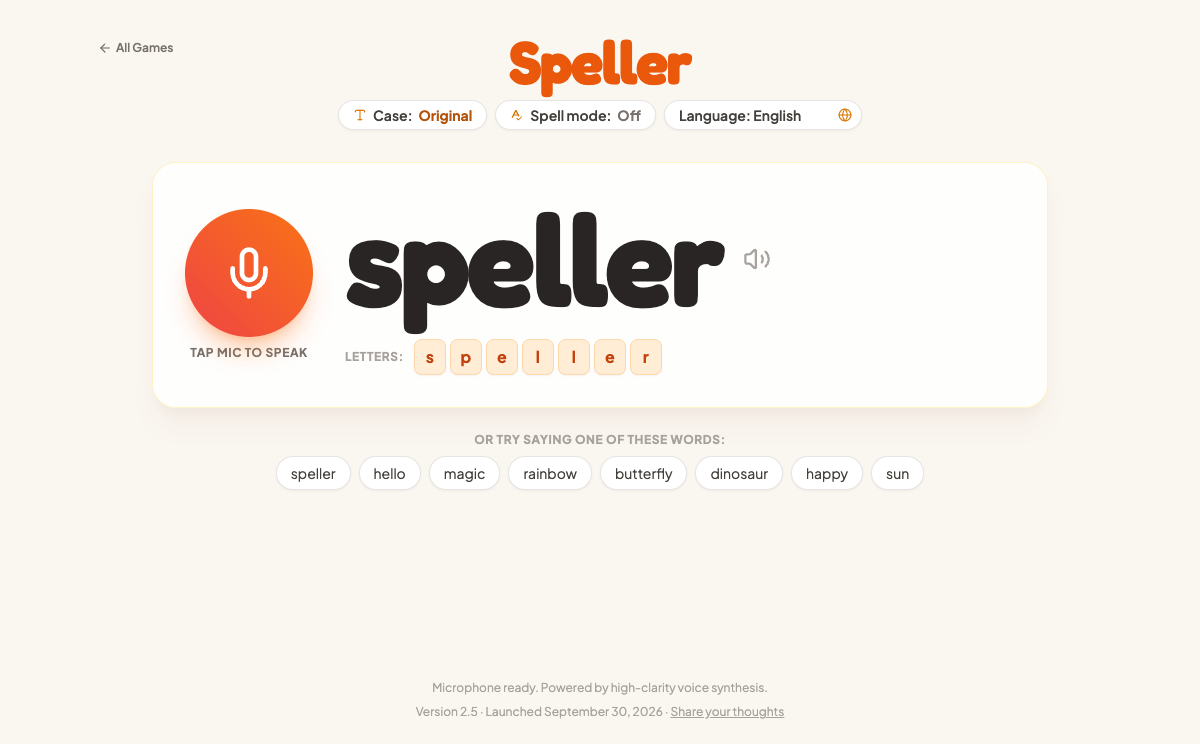
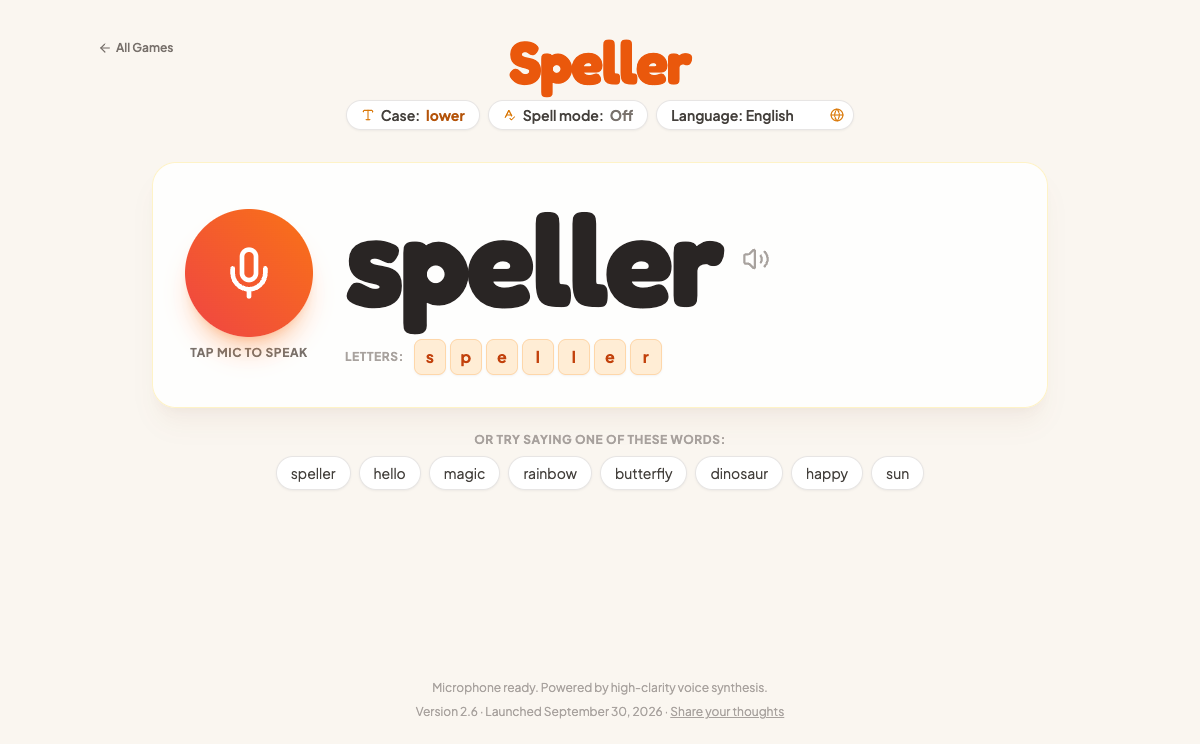
Add Cantonese and lowercase default to Speller

diff --git a/speller/index.html b/speller/index.html
@@ -71,7 +71,7 @@
             <div class="flex flex-wrap items-center justify-center gap-2 mt-2">
                 <button id="caseToggleBtn" onclick="toggleCase()" class="inline-flex items-center gap-1.5 bg-white px-3.5 py-1 rounded-full border border-stone-200 shadow-sm hover:border-amber-400 text-xs sm:text-sm font-semibold text-stone-700 transition-all active:scale-95">
                     <i data-lucide="type" class="w-3.5 h-3.5 text-amber-600"></i>
-                    Case: <span id="caseState" class="text-amber-700 font-bold">Original</span>
+                    Case: <span id="caseState" class="text-amber-700 font-bold">lower</span>
                 </button>
 
                 <button id="spellToggleBtn" onclick="toggleSpellMode()" class="inline-flex items-center gap-1.5 bg-white px-3.5 py-1 rounded-full border border-stone-200 shadow-sm hover:border-amber-400 text-xs sm:text-sm font-semibold text-stone-700 transition-all active:scale-95">
@@ -88,6 +88,7 @@
                         <option value="de-DE">Language: German</option>
                         <option value="it-IT">Language: Italian</option>
                         <option value="zh-CN">Language: Mandarin</option>
+                        <option value="zh-HK">Language: Cantonese</option>
                         <option value="ja-JP">Language: Japanese</option>
                         <option value="ko-KR">Language: Korean</option>
                         <option value="pt-BR">Language: Portuguese</option>
@@ -157,7 +158,7 @@
     <!-- Footer Status -->
     <footer class="w-full max-w-4xl mx-auto mt-auto text-center text-xs text-stone-400 pt-4">
         <p id="statusText">Microphone ready. Powered by high-clarity voice synthesis.</p>
-        <p class="mt-2">Version 2.5 · Launched <time datetime="2026-09-30">September 30, 2026</time> · <a class="underline" href="../feedback/?game=speller&amp;v=2.5">Share your thoughts</a></p>
+        <p class="mt-2">Version 2.6 · Launched <time datetime="2026-09-30">September 30, 2026</time> · <a class="underline" href="../feedback/?game=speller&amp;v=2.6">Share your thoughts</a></p>
     </footer>
 
     <script>
@@ -179,6 +180,7 @@
             "de-DE": { defaultWord: "hallo", samples: ["hallo", "sonne", "zauber", "blume", "schmetterling", "glücklich", "drache", "welt"] },
             "it-IT": { defaultWord: "ciao", samples: ["ciao", "sole", "magia", "farfalla", "fiore", "drago", "felice", "mondo"] },
             "zh-CN": { defaultWord: "你好", samples: ["你好", "太阳", "彩虹", "魔法", "蝴蝶", "快乐", "恐龙", "朋友"] },
+            "zh-HK": { defaultWord: "你好", samples: ["你好", "多謝", "早晨", "朋友", "食飯", "月亮", "蝴蝶", "開心"] },
             "ja-JP": { defaultWord: "こんにちは", samples: ["こんにちは", "たいよう", "にじ", "まほう", "ちょうちょう", "たのしい", "きょうりゅう", "ともだち"] },
             "ko-KR": { defaultWord: "안녕하세요", samples: ["안녕하세요", "태양", "무지개", "마법", "나비", "행복", "공룡", "친구"] },
             "pt-BR": { defaultWord: "olá", samples: ["olá", "sol", "mágica", "borboleta", "flor", "dragão", "feliz", "amigo"] },
@@ -420,7 +422,7 @@
 
         function toggleCase() {
             isCaseUpper = !isCaseUpper;
-            document.getElementById('caseState').textContent = isCaseUpper ? "UPPERCASE" : "Original";
+            document.getElementById('caseState').textContent = isCaseUpper ? "UPPERCASE" : "lower";
             updateDisplay();
         }
 
@@ -461,6 +463,7 @@
                 "de-DE": "German",
                 "it-IT": "Italian",
                 "zh-CN": "Mandarin",
+                "zh-HK": "Cantonese",
                 "ja-JP": "Japanese",
                 "ko-KR": "Korean",
                 "pt-BR": "Portuguese",

diff --git a/versions/index.html b/versions/index.html
@@ -42,6 +42,7 @@
   <h2>Speller</h2>
   <table>
     <tr><th>Version</th><th>Released</th><th>What was in it</th></tr>
+    <tr><td><a href="speller/2.6/">2.6 — Cantonese and lowercase default</a></td><td>Sep 30, 2026</td><td>Adds Cantonese to the language selector and makes the initial case label explicitly lower.</td></tr>
     <tr><td><a href="speller/2.5/">2.5 — Speller redesign</a></td><td>Sep 30, 2026</td><td>Renamed to Speller and moved to the /speller/ URL. The Gemini redesign adds a larger word display, clickable letter tiles, language selection, capitalization control, Spell mode, and sample words.</td></tr>
     <tr><td><a href="word-deconstructor/2.4/">2.4 — Mic, case, and spell modes</a></td><td>Sep 30, 2026</td><td>The final Say It, Spell It! release before the game was renamed Speller and moved to its new public URL.</td></tr>
     <tr><td><a href="word-deconstructor/2.3/">2.3 — Reliable voice playback</a></td><td>Sep 29, 2026</td><td>Speech is warmed up from a tap, resumed before playback, and retried after stopping an old utterance. A Test voice button helps confirm audio, and the game now explains when the browser cannot start speech.</td></tr>

diff --git a/index.html b/index.html
@@ -138,7 +138,7 @@ footer { border-top: 1px solid var(--line); padding-top: 20px; color: var(--ink-
       <a class="cover" href="speller/" aria-label="Play Speller"><img src="speller/cover.png" alt="A warm, cream-colored Speller game with a microphone and giant letters" width="1200" height="744"></a>
       <div class="info">
         <h2>Speller</h2>
-        <p class="version"><b>Version 2.5</b> · Launched <time datetime="2026-09-30">September 30, 2026</time></p>
+        <p class="version"><b>Version 2.6</b> · Launched <time datetime="2026-09-30">September 30, 2026</time></p>
         <p>Say a word and see it appear in giant letters. Tap each letter to hear it, switch case or language, and turn on Spell mode to hear the word spelled aloud.</p>
         <ul class="tags">
           <li>Phonics</li><li>Reading</li><li>Speech</li><li>Syllables</li>

diff --git a/speller/HANDOFF.md b/speller/HANDOFF.md
@@ -1,11 +1,13 @@
 # Speller — Handoff Note
 
-## Update — Version 2.5
+## Update — Version 2.6
 
-- **Live:** Speller 2.5 is the current game at /speller/.
+- **Live:** Speller 2.6 is the current game at /speller/.
 - **Design source:** This release replaces the previous Say It, Spell It! page with the reviewed Gemini design supplied by the user.
 - **Interaction:** The page shows a large spoken word, clickable letter tiles, capitalization control, spell mode, language selection, sample words, and speech playback.
 - **Display:** The main word is intentionally oversized for easy reading on phones and tablets.
+- **Languages:** The selector includes Cantonese (`zh-HK`) with Cantonese sample words, and the
+  initial case state is explicitly labeled lower.
 - **Dependencies:** The page uses Tailwind and Lucide from their CDN plus Google Fonts, as supplied by the design source.
 - **Historical releases:** Earlier Say It, Spell It! versions remain frozen under versions/word-deconstructor/.
 - **Future work:** Add sentence mode, improve privacy copy around browser speech services, and consider bringing back a curated phonics bank if this design needs instructional breakdowns again.
@@ -14,9 +16,8 @@
 
 - Current page: speller/index.html
 - Current URL: https://magicmakersfamily.github.io/games/speller/
-- Current version: 2.5
+- Current version: 2.6
 - Launch date: 2026-09-30
-- Release tag: speller-v2.5
+- Release tag: speller-v2.6
 
 Before future releases, update the shelf card, README table, feedback game map, versions/index.html, and the frozen release archive. Render speller/cover.png, run a browser smoke check, commit, tag, push, and verify the public URL.
-

diff --git a/README.md b/README.md
@@ -42,7 +42,7 @@ tools/              freeze-version.sh: freeze a tagged release into versions/
 | James’s Nature Aquarium | `aquarium/` | 3.4 | 2026-09-24 |
 | Mid-Autumn Mayhem | `mid-autumn/` | 1.7 | 2026-09-25 |
 | Blow Up (beta) | `blow-up/` | 1.4 | 2026-09-27 |
-| Speller | `speller/` | 2.5 | 2026-09-30 |
+| Speller | `speller/` | 2.6 | 2026-09-30 |
 
 Past versions stay playable at https://magicmakersfamily.github.io/games/versions/ (for
 grown-ups; each keeps its own saved games). Every release is also a git tag (`blow-up-v1.3`, …).
